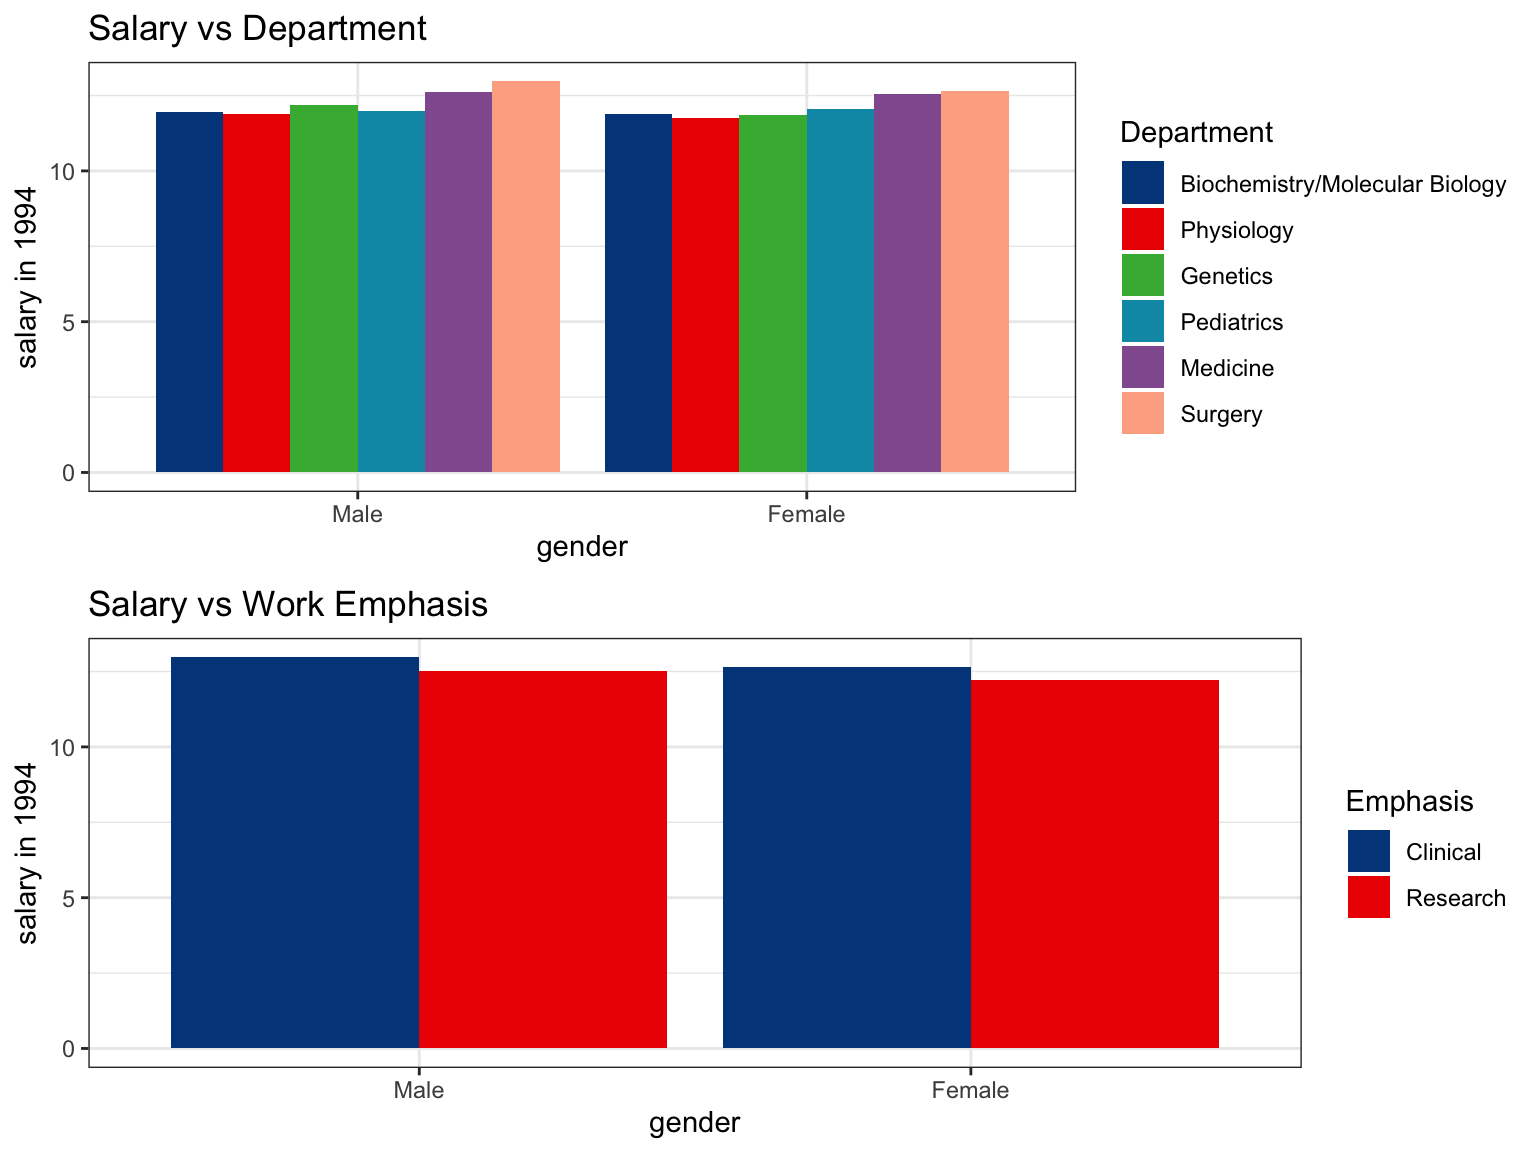
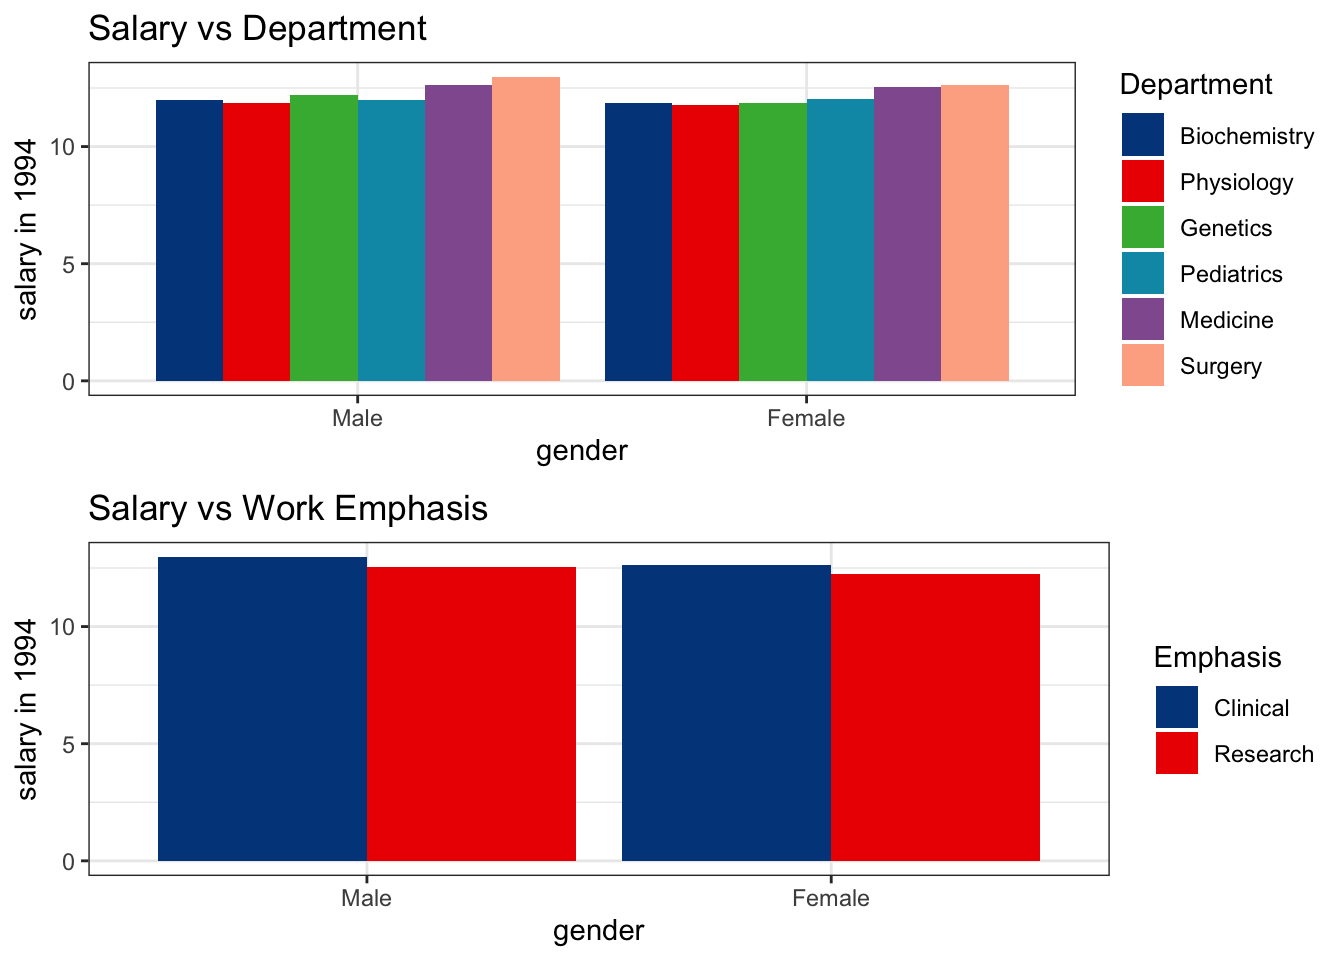
updated

Changed region(s): [[0.0, 0.0, 1.0, 1.0]]

diff --git a/Gender_Salary.html b/Gender_Salary.html
@@ -333,7 +333,7 @@ $(document).ready(function () {
 <div id="introduction" class="section level1">
 <h1>Introduction</h1>
 <p>Income inequality between men and women has been a point of debate over the years. To find our own answers, our team sought to examine the association between salary and gender at the Houston college of medicine. This was a cross-sectional study based on the salaries among faculties with varying expertise in the field of medicine. We created two regression models of baseline salary in 1994 and the increment of salary between 1994 and 1995, according to gender, department, years of experience, work emphasis, certification status, and rank. We found that gender was significantly associated with salary setting at baseline but that it was not a determining factor for the salary increase from between 1994 and 1995.</p>
-<p>Title VII of the Civil Rights Act of 1964 is a federal law that prohibits employers from discriminating against employees on the basis of sex, race, color, national origin and religion[3]. Also, the equal pay act of 1963 requires that men and women in the same workplace be given equal pay for equal work. However, the U.S education system is one area that is not immune to this income gap problem. Several factors determine one’s compensation in the education system. Despite these legitimate factors that determine compensation, there are many cases that have been published claiming that female professors are getting paid less compared to their male colleagues while bearing the same, if not superior, titles or accolades. The aim of this study is to examine the association between gender discrimination in setting salary within the Houston college of medicine where a female professor claimed, through a district court lawsuit, that there was evidence of discrimination against women in giving promotions and setting salaries. To support this, we built multiple regressionmodels using six predictor variables such as the subject’s department, their area of expertise, whether or not they are board-certified, years of experience, and their position title. We tested for interactions and confounders that might be present between all the stated predictors and our main predictor of interest: the subject’s gender. Our response variables were the baseline salary in 1994 and the change in salary between 1994 and 1995.</p>
+<p>Title VII of the Civil Rights Act of 1964 is a federal law that prohibits employers from discriminating against employees on the basis of sex, race, color, national origin and religion. Also, the equal pay act of 1963 requires that men and women in the same workplace be given equal pay for equal work. However, the U.S education system is one area that is not immune to this income gap problem. Several factors determine one’s compensation in the education system. Despite these legitimate factors that determine compensation, there are many cases that have been published claiming that female professors are getting paid less compared to their male colleagues while bearing the same, if not superior, titles or accolades. The aim of this study is to examine the association between gender discrimination in setting salary within the Houston college of medicine where a female professor claimed, through a district court lawsuit, that there was evidence of discrimination against women in giving promotions and setting salaries. To support this, we built multiple regressionmodels using six predictor variables such as the subject’s department, their area of expertise, whether or not they are board-certified, years of experience, and their position title. We tested for interactions and confounders that might be present between all the stated predictors and our main predictor of interest: the subject’s gender. Our response variables were the baseline salary in 1994 and the change in salary between 1994 and 1995.</p>
 </div>
 <div id="methods" class="section level1">
 <h1>Methods</h1>
@@ -366,7 +366,7 @@ $(document).ready(function () {
     Title = factor(Title, levels = c(&quot;1&quot;, &quot;2&quot;, &quot;3&quot;))) %&gt;% 
   mutate(
     gender = recode(gender, &quot;1&quot; = &quot;Male&quot;, &quot;0&quot; = &quot;Female&quot;),
-    Department = recode(Department, &quot;1&quot; = &quot;Biochemistry/Molecular Biology&quot;, 
+    Department = recode(Department, &quot;1&quot; = &quot;Biochemistry&quot;, 
                         &quot;2&quot; = &quot;Physiology&quot;, &quot;3&quot; = &quot;Genetics&quot;,
                   &quot;4&quot; = &quot;Pediatrics&quot;, &quot;5&quot; = &quot;Medicine&quot;, &quot;6&quot; = &quot;Surgery&quot;),
     Emphasis = recode(Emphasis, &quot;1&quot; = &quot;Clinical&quot;, &quot;0&quot; = &quot;Research&quot;),
@@ -399,11 +399,12 @@ p2 =
   ggsci::scale_fill_lancet()
 
 gridExtra::grid.arrange(p1, p2, ncol = 2)</code></pre>
-<p><img src="Gender_Salary_files/figure-html/unnamed-chunk-2-1.png" width="90%" /></p>
+<p><img src="Gender_Salary_files/figure-html/unnamed-chunk-2-1.png" width="672" /></p>
 <pre class="r"><code>lawsuit_df = 
   lawsuit_df %&gt;% 
   mutate(log_sal94 = log(`Salary (1994)`),
-         log_sal95 = log(`Salary (1995)`))
+         log_sal95 = log(`Salary (1995)`),
+         sal_increase = log(`Salary (1995)` - `Salary (1994)`))
 
 
 p3 = 
@@ -427,44 +428,60 @@ p4 =
   theme_bw() +
   ggsci::scale_fill_lancet()
 gridExtra::grid.arrange(p3, p4, ncol = 2)</code></pre>
-<p><img src="Gender_Salary_files/figure-html/unnamed-chunk-2-2.png" width="90%" /></p>
-<p>The barplots below show the distribution of the 1994 salary against different predictor variables according to a subject’s gender. For instance, the first figure shows that overall surgeons are paid more compared to other specializations and that male surgeons are paid more compared to female surgeons at the Houston College of Medicine. Additionally, male full professors get paid more compared to female full professors. I will further explore what might be the reason for this when I build my models.</p>
+<p><img src="Gender_Salary_files/figure-html/unnamed-chunk-2-2.png" width="672" /></p>
 <pre class="r"><code>a = lawsuit_df %&gt;%
   ggplot(aes(x = gender, fill = Department, y = log_sal94), alpha = .6) +
   geom_col(position = &quot;dodge&quot;) +
-  ggsci:::scale_fill_lancet()+
+  ggsci:::scale_fill_lancet() +
   theme_bw() +
   labs(y = &quot;salary in 1994&quot;,
        title = &quot;Salary vs Department&quot;) 
-
-
 b = lawsuit_df %&gt;%
   ggplot(aes(x = gender, fill = Emphasis, y = log_sal94),alpha = .6) +
   geom_col(position = &quot;dodge&quot;) +
-  ggsci:::scale_fill_lancet()+
+  ggsci:::scale_fill_lancet() +
   theme_bw() +
   labs(y = &quot;salary in 1994&quot;,
        title = &quot;Salary vs Work Emphasis&quot;)
-
 gridExtra::grid.arrange(a, b, nrow = 2)</code></pre>
-<p><img src="Gender_Salary_files/figure-html/unnamed-chunk-3-1.png" width="90%" /></p>
+<p><img src="Gender_Salary_files/figure-html/unnamed-chunk-3-1.png" width="672" /></p>
 <pre class="r"><code>c = lawsuit_df %&gt;%
   ggplot(aes(x = gender, fill = Certification, y = log_sal94),alpha = .6) +
   geom_col(position = &quot;dodge&quot;) +
-  ggsci:::scale_fill_lancet()+
+  ggsci:::scale_fill_lancet() +
   theme_bw() +
   labs(y = &quot;salary in 1994&quot;,
        title = &quot;Salary vs Certification&quot;)
-
 d = lawsuit_df %&gt;%
   ggplot(aes(x = gender, fill = Title, y = log_sal94),alpha = .6) +
   geom_col(position = &quot;dodge&quot;) +
-  ggsci:::scale_fill_lancet()+
+  ggsci:::scale_fill_lancet() +
   theme_bw() +
   labs(y = &quot;salary in 1994&quot;,
        title = &quot;Salary vs Rank&quot;)
 gridExtra::grid.arrange(c, d, nrow = 2)</code></pre>
-<p><img src="Gender_Salary_files/figure-html/unnamed-chunk-3-2.png" width="90%" /></p>
+<p><img src="Gender_Salary_files/figure-html/unnamed-chunk-3-2.png" width="672" /></p>
+<p>The barplots above show the distribution of the 1994 salary against different predictor variables according to a subject’s gender. For instance, the first figure shows that overall surgeons are paid more compared to other specializations and that male surgeons are paid more compared to female surgeons at the Houston College of Medicine. Additionally, male full professors get paid more compared to female full professors. I will further explore what might be the reason for this when I build my models.</p>
+<p><strong>Graphical Representation of potential interation between years of experience and salary adjusted for a subject’s gender:</strong></p>
+<p>Below I will graphically explore the years of experience variable in relation to both the 1994 salary and salary increase from 1994 to 1995. It is important to highlight that salary has a linear relationship with years of experience. It is also important to highlight that if the lines are not parallel, it is evidence that the relationship between years of experience and salary will be determined by a subject’s gender, further validating the hypothesis of a presence of gender discrimination when it comes to salary setting.</p>
+<pre class="r"><code>lawsuit_df %&gt;% 
+  ggplot(aes(x = Experience, y = log_sal94, color = gender)) + 
+  geom_point() + 
+  geom_smooth(method = &quot;lm&quot;, se = FALSE) + 
+  facet_grid(~Department) + 
+  theme_bw()</code></pre>
+<p><img src="Gender_Salary_files/figure-html/unnamed-chunk-4-1.png" width="672" /></p>
+<p>In the scatterplot above, all lines cross which means that in all six departments, when all other variables are fixed, years of experience will not be the sole factor in determining the 1994 salary, gender will too.</p>
+<pre class="r"><code>lawsuit_df %&gt;% 
+  ggplot(aes(x = Experience, y = sal_increase, color = gender)) + 
+  geom_point() + 
+  geom_smooth(method = &quot;lm&quot;, se = FALSE) + 
+  facet_grid(~Department) + 
+  theme_bw()</code></pre>
+<p><img src="Gender_Salary_files/figure-html/unnamed-chunk-5-1.png" width="672" /></p>
+<p>As the previous scatterplot, the effect of years of experience toward salary increase will be modified by a subject’s gender, except in the <code>Pediatrics</code> department where there is not evidence of gender being a effect modifier of the relationship between years of experience and salary increase.</p>
+<div id="table-1." class="section level3">
+<h3>Table 1.</h3>
 <p>Table 1 shows that the departments of Physiology, Genetics and Pediatrics had a significantly higher proportion of female faculties compared to the male, while the department of Surgery had a significantly lower proportion of female faculties. There was no significant difference in both clinical or research emphasis as well as certification between both genders. The results also presented that years after obtaining MD for females were shorter than that of males. By comparing the rank, which was also a proxy for productivity, the proportion of full professors among female faculties was much lesser than males.</p>
 <pre class="r"><code># Cleaning output
 tab1_controls = tableby.control(
@@ -483,6 +500,7 @@ tab1 = tableby(gender ~ Department + Emphasis + Certification + Publication +
                 data = lawsuit_df, control = tab1_controls)
 summary(tab1, title = &#39;Descriptive Statistics&#39;, digits = 2, text = T)</code></pre>
 <p><img src="images/Table1.jpg" /></p>
+</div>
 </div>
 <div id="model-building" class="section level2">
 <h2>Model Building</h2>
